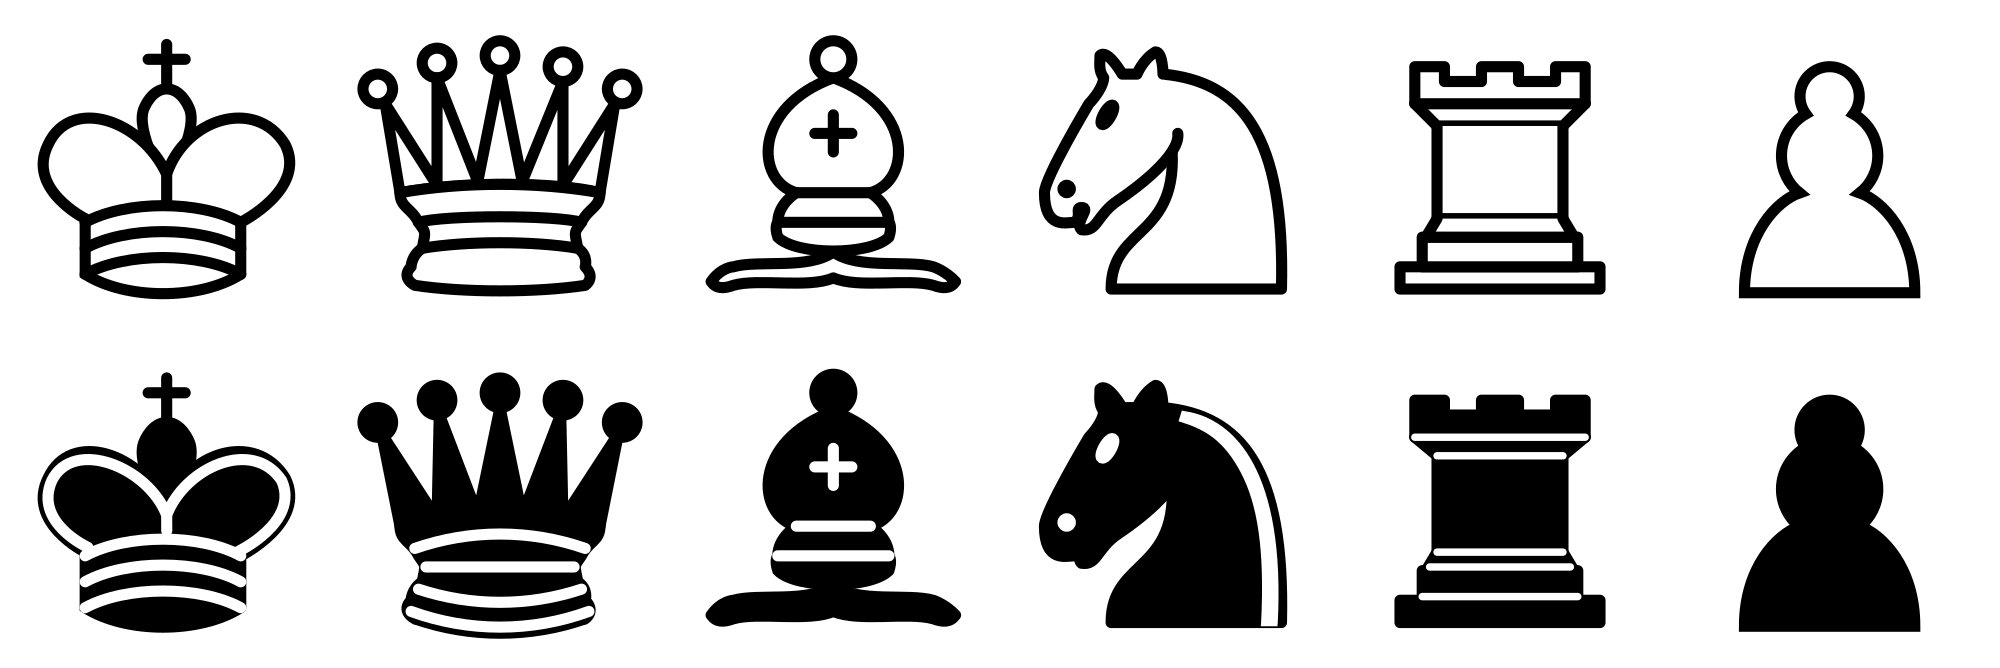
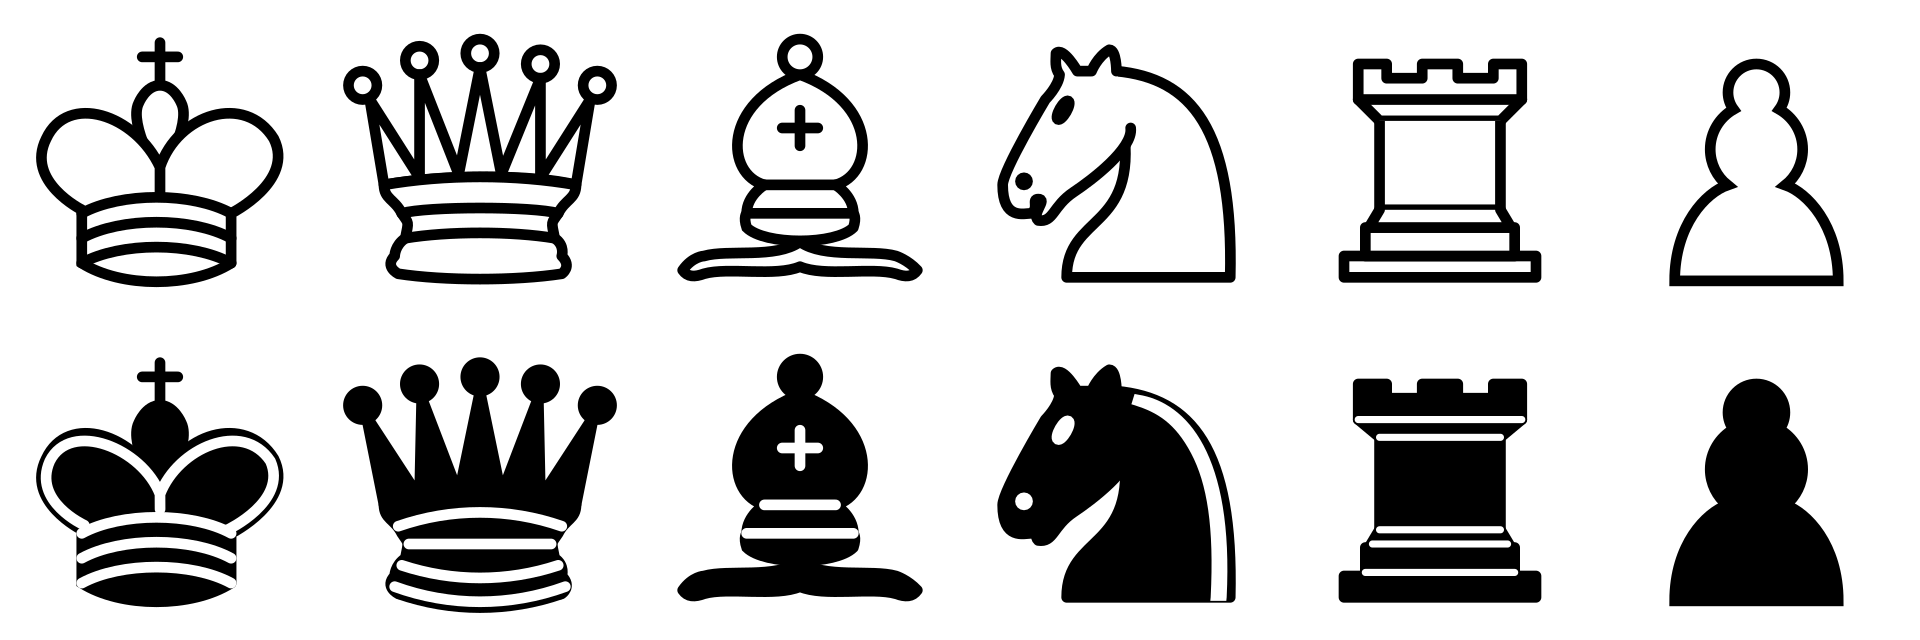
fixing piece rendering (still broken window resizing), preventing tilemap from constantly updating

diff --git a/src/board_plugin.rs b/src/board_plugin.rs
@@ -7,6 +7,7 @@ impl Plugin for BoardPlugin {
     fn build(&self, app: &mut App) {
         app
             .init_resource::<BoardState>()
+            .init_resource::<MoveList>()
             .add_startup_system(create_board);
     }
 }
@@ -20,11 +21,13 @@ pub struct BoardSquare {
 }
 
 pub struct BoardState {
-    state: [u8; 64]
+    pub updated: bool,
+    state: [u8; 64],
 }
 impl Default for BoardState {
     fn default() -> Self {
         Self {
+            updated: false,
             state: [0; 64],
         }
     }
@@ -32,6 +35,7 @@ impl Default for BoardState {
 impl BoardState {
     pub fn set_state(&mut self, x: usize, y: usize, piece: u8) {
         self.state[x * 8 + y] = piece;
+        self.updated = true;
     }
     pub fn get_state(&self, x: usize, y: usize) -> u8 {
         self.state[x * 8 + y]
@@ -41,17 +45,28 @@ impl BoardState {
     }
 }
 
+#[derive(Default)]
+pub struct MoveList {
+    moves: Vec<(u16, u16)>,
+}
+impl MoveList {
+    pub fn get_last_move_position(&self) -> u16 {
+        if self.moves.len() == 0 { 0 }
+        else { self.moves.last().unwrap().1 }
+    }
+}
+
 fn create_board(mut commands: Commands, asset_server: Res<AssetServer>, mut map_query: MapQuery) {
-    let texture_handle = asset_server.load("images/chess_squares.png");
+    let texture_handle = asset_server.load("images/chess_square.png");
 
     let layer_settings = LayerSettings::new(
         MapSize(8, 8),
         ChunkSize(1, 1),
-        TileSize(333.3, 334.0),
-        TextureSize(1666.6, 334.0),
+        TileSize(16.0, 16.0),
+        TextureSize(80.0, 16.0)
     );
 
-    let (mut layer_builder, layer_entity) = LayerBuilder::<TileBundle>::new(&mut commands, layer_settings, 0u16, 0u16);
+    let (mut layer_builder, board_layer_entity) = LayerBuilder::<TileBundle>::new(&mut commands, layer_settings, 0u16, 0u16);
     for row in 0..8 {
         for col in 0..8 {
             let tile_pos = TilePos(row as u32, col as u32);
@@ -70,34 +85,41 @@ fn create_board(mut commands: Commands, asset_server: Res<AssetServer>, mut map_
         }
     }
     map_query.build_layer(&mut commands, layer_builder, texture_handle);
+    commands.entity(board_layer_entity)
+        .insert(Transform {
+            translation: Vec3::new(-510.0, -510.0, 0.0),
+            scale: Vec3::new(8.0, 8.0, 0.0),
+            ..Default::default()
+        });
 
     let texture_handle = asset_server.load("images/pieces.png");
 
     let layer_settings = LayerSettings::new(
         MapSize(8, 8),
         ChunkSize(1, 1),
-        TileSize(333.2, 334.0),
-        TextureSize(1999.2, 668.0),
+        TileSize(320.0, 320.0),
+        TextureSize(1920.0, 640.0),
     );
 
-    let (layer_builder, layer_1_entity) = LayerBuilder::<TileBundle>::new(&mut commands, layer_settings, 0u16, 1u16);
+    let (layer_builder, piece_layer_entity) = LayerBuilder::<TileBundle>::new(&mut commands, layer_settings, 0u16, 1u16);
     map_query.build_layer(&mut commands, layer_builder, texture_handle);
+    commands.entity(piece_layer_entity)
+        .insert(Transform {
+            translation: Vec3::new(-510.0, -510.0, 0.0),
+            scale: Vec3::new(0.40, 0.40, 0.0),
+            ..Default::default()
+        });
 
     let map_entity = commands.spawn().id();
     let mut map = Map::new(0u16, map_entity);
 
-    map.add_layer(&mut commands, 0u16, layer_entity);
-    map.add_layer(&mut commands, 1u16, layer_1_entity);
+    map.add_layer(&mut commands, 0u16, board_layer_entity);
+    map.add_layer(&mut commands, 1u16, piece_layer_entity);
 
     commands
         .entity(map_entity)
         .insert(map)
         .insert(Board)
-        // .insert(Transform::default())
-        .insert(Transform {
-            translation: Vec3::new(-500.0, -500.0, 0.0),
-            scale: Vec3::new(0.38, 0.38, 0.0),
-            ..Default::default()
-        })
+        .insert(Transform::default())
         .insert(GlobalTransform::default());
 }

diff --git a/src/piece_plugin.rs b/src/piece_plugin.rs
@@ -1,14 +1,20 @@
 use std::convert::From;
 use bevy::prelude::*;
+use bevy::ecs::schedule::ShouldRun;
 use bevy_ecs_tilemap::prelude::*;
-use crate::board_plugin::BoardState;
+use crate::board_plugin::{BoardState, MoveList};
 
 pub struct PiecePlugin;
 impl Plugin for PiecePlugin {
     fn build(&self, app: &mut App) {
         app
             .add_startup_system(build_pieces)
-            .add_system(place_pieces);
+            .add_system_set(
+                SystemSet::new()
+                    .label("update_pieces")
+                    .with_run_criteria(run_if_board_updated)
+                    .with_system(place_pieces)
+            );
     }
 }
 
@@ -70,7 +76,7 @@ impl PieceType {
 #[derive(Component)]
 struct Piece(u8);
 
-fn build_pieces(mut commands: Commands, mut board_state: ResMut<BoardState>) {
+fn build_pieces(mut board_state: ResMut<BoardState>) {
     board_state.set_state(0, 0, PieceType::to_u8((PieceType::Rook, PieceType::White)));
     board_state.set_state(1, 0, PieceType::to_u8((PieceType::Knight, PieceType::White)));
     board_state.set_state(2, 0, PieceType::to_u8((PieceType::Bishop, PieceType::White)));
@@ -98,7 +104,14 @@ fn build_pieces(mut commands: Commands, mut board_state: ResMut<BoardState>) {
     }
 }
 
-fn place_pieces(mut commands: Commands, mut map_query: MapQuery, board_state: Res<BoardState>) {
+fn run_if_board_updated(board_state: Res<BoardState>) -> ShouldRun {
+    if board_state.updated {
+        ShouldRun::Yes
+    } else {
+        ShouldRun::No
+    }
+}
+fn place_pieces(mut commands: Commands, mut map_query: MapQuery, mut board_state: ResMut<BoardState>) {
     map_query.despawn_layer_tiles(&mut commands, 0u16, 1u16);
 
     for row in 0..8 {
@@ -110,8 +123,7 @@ fn place_pieces(mut commands: Commands, mut map_query: MapQuery, board_state: Re
             let pc = piece & 0x18;
             let pt = piece & 0x07;
 
-            let texture_index = pt + (pc - 8);
-            println!("piece {:b} pc {:b} pt {:b} texture {}", piece, pc, pt, texture_index);
+            let texture_index = pt + (if pc == 8 { 0 } else { 6 });
             let tile_result = map_query.set_tile(
                 &mut commands,
                 pos,
@@ -125,4 +137,6 @@ fn place_pieces(mut commands: Commands, mut map_query: MapQuery, board_state: Re
             }
         }
     }
+
+    board_state.updated = false;
 }

diff --git a/src/main.rs b/src/main.rs
@@ -2,6 +2,7 @@
 #![warn(unused_mut, overflowing_literals)]
 #![forbid(unsafe_code)]
 
+use bevy::diagnostic::{FrameTimeDiagnosticsPlugin, LogDiagnosticsPlugin};
 use bevy::prelude::*;
 use bevy_ecs_tilemap::prelude::*;
 
@@ -22,6 +23,8 @@ fn main() {
         .add_plugin(TilemapPlugin)
         .add_plugin(board_plugin::BoardPlugin)
         .add_plugin(piece_plugin::PiecePlugin)
+        .add_plugin(LogDiagnosticsPlugin::default())
+        .add_plugin(FrameTimeDiagnosticsPlugin::default())
         .add_startup_system(setup)
         .add_system(helpers::set_texture_filters_to_nearest)
         .run();
